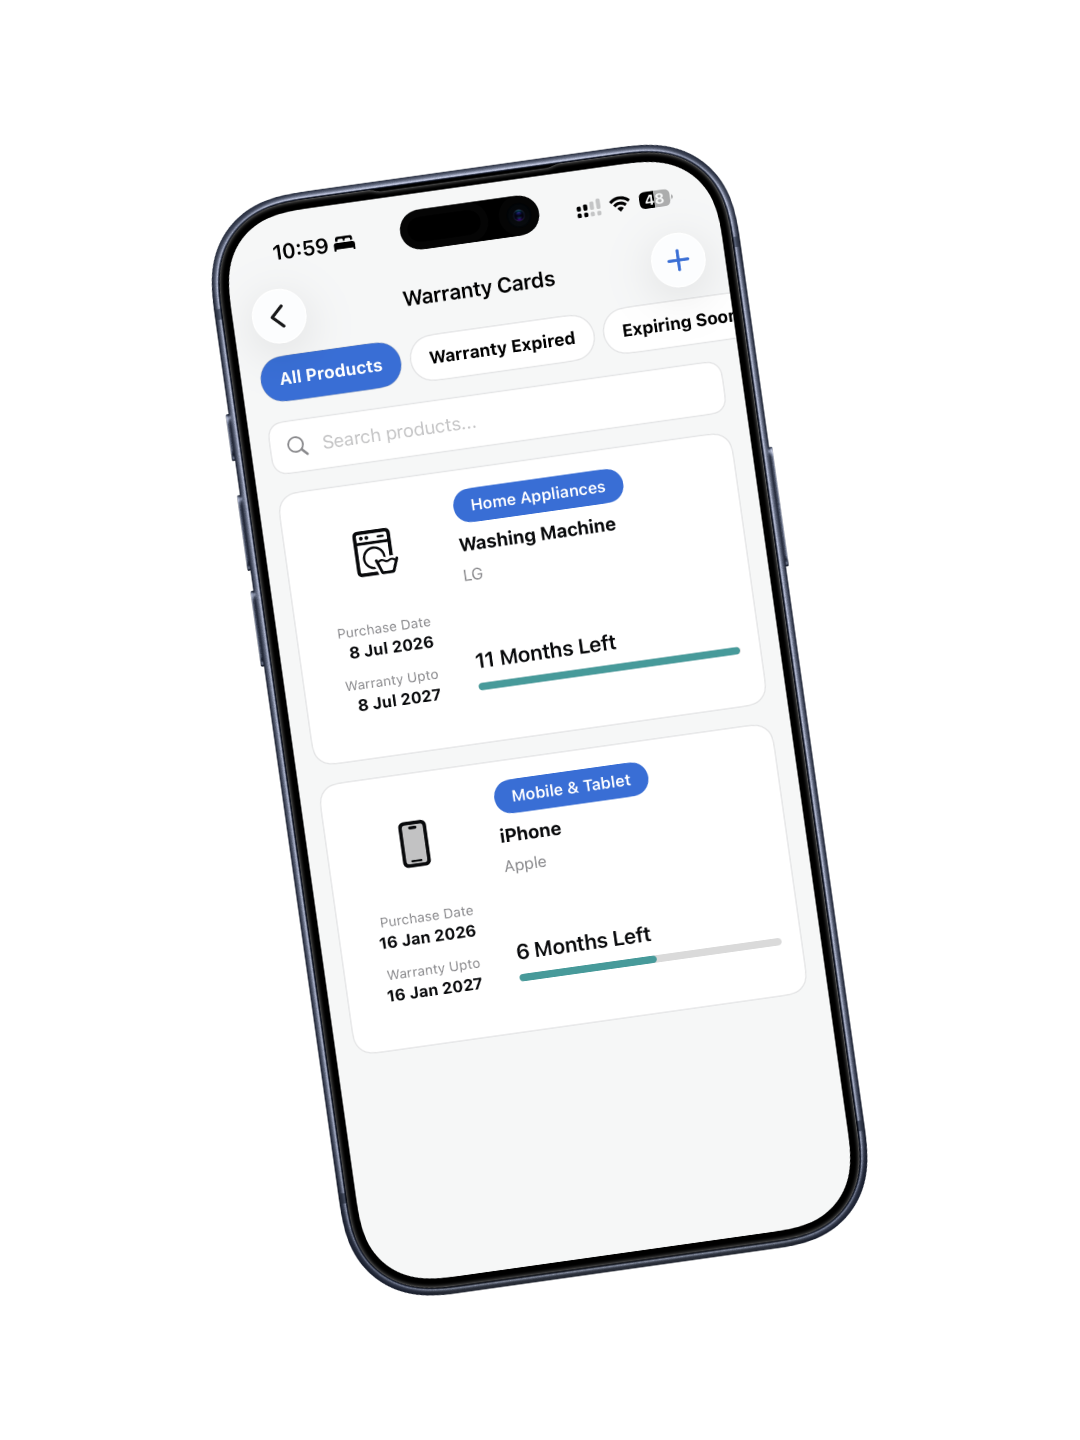
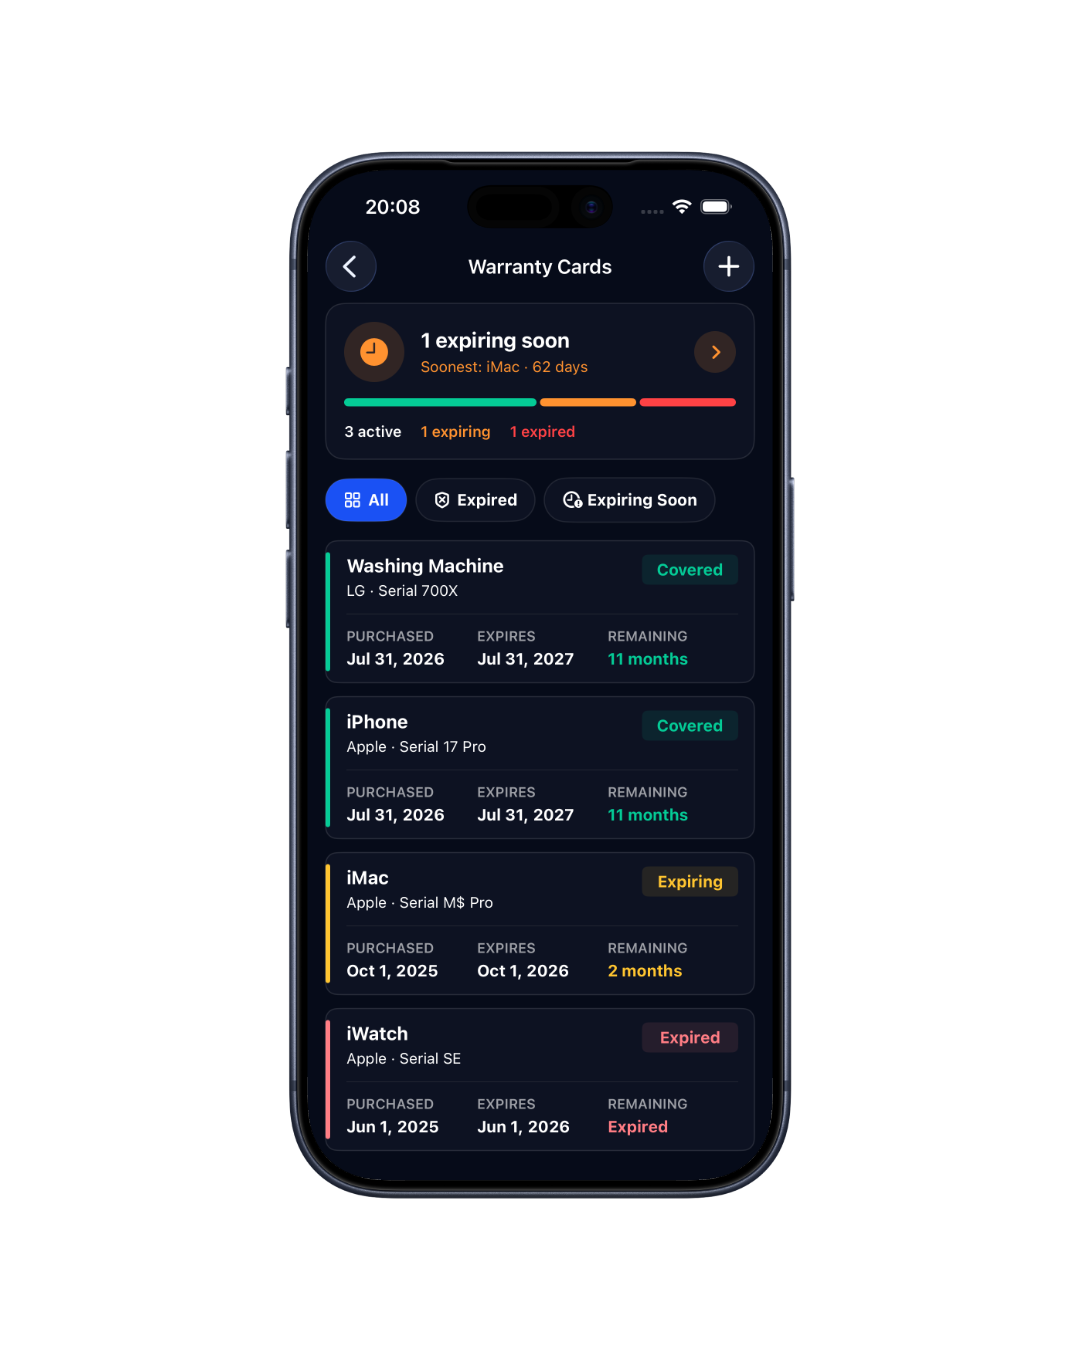
Updated

diff --git a/index.html b/index.html
@@ -427,7 +427,7 @@
       <div data-animate data-delay="0.05" class="pcard p-7">
         <div class="inline-flex items-center justify-center w-11 h-11 rounded-full border border-[#479A9A]/20 text-[#479A9A] mb-4"><span class="material-symbols-rounded text-[22px]">autorenew</span></div>
         <h3 class="text-[17px] font-bold mb-2 text-brandtext">Recurring Bills</h3>
-        <p class="text-sm text-brandmuted leading-[1.75]">Set daily, weekly, monthly, or yearly once — RemindPay handles the rest.</p>
+        <p class="text-sm text-brandmuted leading-[1.75]">Set daily, weekly, bi-weekly, monthly, bi-monthly, or yearly once — RemindPay handles the rest.</p>
       </div>
 
       <!-- Multi-Currency — orange -->
@@ -456,6 +456,20 @@
         <div class="inline-flex items-center justify-center w-11 h-11 rounded-full border border-[#F6BD05]/25 text-[#C99900] mb-4"><span class="material-symbols-rounded text-[22px]">attach_file</span></div>
         <h3 class="text-[17px] font-bold mb-2 text-brandtext">Attachments &amp; Bill Split</h3>
         <p class="text-sm text-brandmuted leading-[1.75]">Attach receipts and split shared expenses with friends in seconds.</p>
+      </div>
+
+      <!-- Add to Calendar — teal -->
+      <div data-animate class="pcard p-7">
+        <div class="inline-flex items-center justify-center w-11 h-11 rounded-full border border-[#479A9A]/20 text-[#479A9A] mb-4"><span class="material-symbols-rounded text-[22px]">calendar_add_on</span></div>
+        <h3 class="text-[17px] font-bold mb-2 text-brandtext">Add to Calendar</h3>
+        <p class="text-sm text-brandmuted leading-[1.75]">Add bill due dates directly to your calendar so you never lose track.</p>
+      </div>
+
+      <!-- Auto Pay — orange -->
+      <div data-animate data-delay="0.05" class="pcard p-7">
+        <div class="inline-flex items-center justify-center w-11 h-11 rounded-full border border-[#F75D12]/20 text-[#F75D12] mb-4"><span class="material-symbols-rounded text-[22px]">payments</span></div>
+        <h3 class="text-[17px] font-bold mb-2 text-brandtext">Auto Pay</h3>
+        <p class="text-sm text-brandmuted leading-[1.75]">Mark bills as auto-pay so you always know what's handled automatically.</p>
       </div>
 
     </div>
